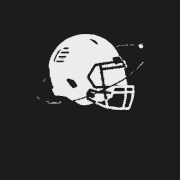
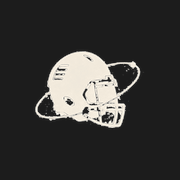
Replace Helmet Orbit with Sebastian-approved ChatGPT mark
Knock out black to true transparency from the approved PNG, ship a
2048 transparent master via next/image (traced SVG was softer), remove
the prior auto-traced SVG, and regenerate PWA/apple-touch tiles.

Changed region(s): [[0.1944, 0.1667, 0.8056, 0.7222]]

diff --git a/src/components/brand.tsx b/src/components/brand.tsx
@@ -1,3 +1,4 @@
+import Image from "next/image";
 import { cn } from "@/lib/utils";
 
 type BrandMarkProps = {
@@ -5,31 +6,39 @@ type BrandMarkProps = {
   size?: number;
   /**
    * `app` — chrome mark (nav / wordmark).
-   * `hero` — larger landing mark. Both use the same crisp SVG.
+   * `hero` — larger landing mark.
    */
   variant?: "app" | "hero";
 };
 
-/** Helmet Orbit mark — vector SVG, cream on transparent for charcoal UI. */
+/** High-res transparent Helmet Orbit (Sebastian-approved ChatGPT mark). */
+const MARK_SRC = "/icons/helmet-orbit-mark-light-2048.png";
+
+/** Helmet Orbit mark — cream on transparent for charcoal UI. */
 export function BrandMark({
   className,
   size = 36,
-  variant: _variant = "app",
+  variant = "app",
 }: BrandMarkProps) {
-  // True vector at any display size (no PNG upscale). Query busts old raster caches.
-  const src = `/icons/helmet-orbit-mark.svg?v=vector-1`;
+  const isHero = variant === "hero";
 
   return (
-    // eslint-disable-next-line @next/next/no-img-element -- SVG mark; avoid next/image rasterization
-    <img
-      src={src}
+    <Image
+      src={MARK_SRC}
       width={size}
       height={size}
       alt=""
       className={cn("shrink-0", className)}
+      sizes={
+        isHero
+          ? "(max-width: 640px) 96px, 112px"
+          : `${Math.max(size, 36)}px`
+      }
+      // Source is 2048² — plenty for retina hero (~96–112 CSS).
+      quality={95}
+      priority={isHero}
       aria-hidden
       draggable={false}
-      decoding="async"
     />
   );
 }
